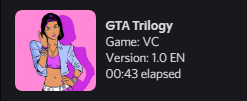
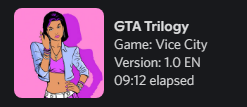
v4.1

Changed region(s): [[0.0567, 0.0594, 0.8502, 0.9208]]

diff --git a/src/dllmain.cpp b/src/dllmain.cpp
@@ -57,6 +57,11 @@ void Game::Init()
 		LOGGER << sBufferz << std::endl;
 	}
 
+	if (ShowLOG)
+	{
+		Logger("Log started");
+	}
+
 	rpc->Update();
 }
 
@@ -64,8 +69,7 @@ void Game::Update()
 {
 	if (ShowLOG)
 	{
-		LOGGER << std::endl;
-		Logger("Trying to start Events::initRwEvent.");
+		Logger("Trying to start void Game::Update().");
 	}
 
 	Events::initRwEvent += []
@@ -83,13 +87,13 @@ void Game::Update()
 
 		if (ShowLOG)
 		{
-			Logger("Events::initRwEvent Started!");
+			Logger("void Game::Update() Started!");
 		}
 
 		if (DCStatus)
 		{
 #ifdef GTA3
-			if (GetGameVersion() == GAME_10EN)
+			if (GetGameVersion() == GAME_10EN || GetGameVersion() == GAME_11EN || GetGameVersion() == GAME_STEAM)
 			{
 				details = "Game: III";
 			}
@@ -102,15 +106,17 @@ void Game::Update()
 				details = "Game: San Andreas";
 			}
 #elif GTAVC
-			if (GetGameVersion() == GAME_10EN)
+			if (GetGameVersion() == GAME_10EN || GetGameVersion() == GAME_11EN || GetGameVersion() == GAME_STEAM)
 			{
-				details = "Game: VC";
+				details = "Game: Vice City";
 			}
 #endif
 #ifdef GTA3
-			if (GetGameVersion() == GAME_10EN)
+			if (GetGameVersion() == GAME_10EN || GetGameVersion() == GAME_11EN || GetGameVersion() == GAME_STEAM)
 			{
-				state = "Version: 1.0 EN";
+				static char  sBufferz[1024];
+				sprintf(sBufferz, "Version: %s", GetGameVersionNames());
+				state = sBufferz;
 			}
 #elif GTASA
 			if (GetGameVersion() == GAME_10US_HOODLUM || GetGameVersion() == GAME_10US_COMPACT ||
@@ -123,10 +129,12 @@ void Game::Update()
 				state = sBufferz;
 			}
 #elif GTAVC
-			if (GetGameVersion() == GAME_10EN)
+			if (GetGameVersion() == GAME_10EN || GetGameVersion() == GAME_11EN || GetGameVersion() == GAME_STEAM)
 			{
-				state = "Version: 1.0 EN";
-			}
+				static char  sBufferz[1024];
+				sprintf(sBufferz, "Version: %s", GetGameVersionNames());
+				state = sBufferz;
+		}
 #endif
 			drp.details = details.c_str();
 			drp.state = state.c_str();
@@ -165,19 +173,11 @@ BOOL APIENTRY DllMain(HINSTANCE hDllHandle, DWORD reason, LPVOID lpReserved)
 				GetGameVersion() != GAME_11EU || GetGameVersion() != GAME_STEAM ||
 				GetGameVersion() != GAME_STEAM_LV)
 			{
-/*				static char   sBufferz[1024];
-				sprintf(sBufferz, "GTA Trilogy Discord RPC\nv4.0 \n\nSA-MP Detected and this plugin are incompatible with this version \n- %s", GetGameVersionName());
-				LOGGER << sBufferz << "\n" << std::endl;*/
-
 				Error("SA-MP Detected and this plugin are incompatible with this version \n- %s", GetGameVersionName());
 				IfSampExist = true;
 			}
 			else
 			{
-/*				static char  sBufferz[1024];
-				sprintf(sBufferz, "GTA Trilogy Discord RPC\nv4.0 \n\nSA-MP Detected! Ignoring Plugin.");
-				LOGGER << sBufferz << std::endl;*/
-
 				Error("SA-MP Detected!");
 				IfSampExist = true;
 			}
@@ -189,19 +189,11 @@ BOOL APIENTRY DllMain(HINSTANCE hDllHandle, DWORD reason, LPVOID lpReserved)
 				GetGameVersion() == GAME_11EU || GetGameVersion() == GAME_STEAM ||
 				GetGameVersion() == GAME_STEAM_LV)
 			{
-/*				static char  sBufferz[1024];
-				sprintf(sBufferz, "GTA Trilogy Discord RPC\nv4.0\n");
-				LOGGER << sBufferz << std::endl;*/
-
 				rpc->Init();
 				IfSampExist = false;
 			}
 			else
 			{
-/*			    static char  sBufferz[1024];
-				sprintf(sBufferz, "GTA Trilogy Discord RPC\nv4.0 \n\nERROR: This plugin does not work with %s version.", GetGameVersionName());
-				LOGGER << sBufferz << std::endl;*/
-
 				Error("This game version is not supported by %s plugin.\nThis plugin supports these game versions:\n- %s \n- %s \n- %s \n- %s \n- %s \n- %s \n- %s",
 					plugin::paths::GetPluginFileNameA(), GetGameVersionName(GAME_10US_HOODLUM), GetGameVersionName(GAME_10US_COMPACT),
 					GetGameVersionName(GAME_10EU), GetGameVersionName(GAME_11US), GetGameVersionName(GAME_11EU), GetGameVersionName(GAME_STEAM),
@@ -210,22 +202,15 @@ BOOL APIENTRY DllMain(HINSTANCE hDllHandle, DWORD reason, LPVOID lpReserved)
 			}
 		}
 #else
-		if (GetGameVersion() == GAMELIST(NULL, GAME_10EN, GAME_10EN))
+		if (GetGameVersion() == GAME_10EN || GetGameVersion() == GAME_11EN || GetGameVersion() == GAME_STEAM)
 		{
-			static char  sBufferz[1024];
-			sprintf(sBufferz, "GTA Trilogy Discord RPC\nv4.0\n");
-			LOGGER << sBufferz << std::endl;
-
 			rpc->Init();
 		}
 		else
 		{
-			Error("This game version is not supported by %s plugin.\nThis plugin supports these game versions:\n- %s",
-				plugin::paths::GetPluginFileNameA(), GetGameVersionName(GAME_10EN));
-
-			static char  sBufferz[1024];
-			sprintf(sBufferz, "GTA Trilogy Discord RPC\nv4.0 \n\nERROR: This plugin does not work with %s version.", GetGameVersionName());
-			LOGGER << sBufferz << std::endl;
+			Error("This game version is not supported by %s plugin.\nThis plugin supports these game versions:\n- %s \n- %s \n- %s",
+				plugin::paths::GetPluginFileNameA(), GetGameVersionName(GAME_10EN), GetGameVersionName(GAME_11EN),
+				GetGameVersionName(GAME_STEAM));
 		}
 #endif
 			break;

diff --git a/README.md b/README.md
@@ -3,14 +3,14 @@ Discord RPC Plugins for GTA Trilogy (III, San Andreas, Vice City), Written in C+
 
 Based on [gtasa-discord-plugin](https://github.com/Brunoo16/gtasa-discord-plugin)
 
-Memory Addresses taken from [GTAMods](https://gtamods.com/wiki/Category:Memory_Addresses) and [Plugin-SDK](https://github.com/DK22Pac/plugin-sdk)
-
 # Requirements
 - [Visual Studio 2019](https://download.visualstudio.microsoft.com/download/pr/b763973d-da6e-4025-834d-d8bc48e7d37f/9b7780b6641ceb4e62c0578d59eb3dbebeda8f5a3474ed253316b0b004d2466e/vs_Community.exe).
 - [Plugin-SDK](https://github.com/DK22Pac/plugin-sdk).
 
 # Version
-- GTA III 1.0
+- GTA III 1.0 EN
+- GTA III 1.1 EN
+- GTA III Steam
 - GTA San Andreas 1.0 US Hoodlum
 - GTA San Andreas 1.0 US Compact
 - GTA San Andreas 1.0 EU 
@@ -18,7 +18,9 @@ Memory Addresses taken from [GTAMods](https://gtamods.com/wiki/Category:Memory_A
 - GTA San Andreas 1.01 EU
 - GTA San Andreas Steam R2
 - GTA San Andreas Steam R2-LV
-- GTA Vice City 1.0
+- GTA Vice City 1.0 EN
+- GTA Vice City 1.1 EN
+- GTA Vice City Steam
 
 # Screenshots
 ![iii](https://github.com/Huga22118/GTA-Discord-RPC/blob/main/iii.png)
@@ -43,12 +45,13 @@ Skip step 3-6 if you have Plugin-SDK Installed.
 Sorry for Bad english :)
 
 # Release
+- [v4.1](https://github.com/Huga22118/GTA-Discord-RPC/releases/tag/v4.1)
 - [v4.0](https://github.com/Huga22118/GTA-Discord-RPC/releases/tag/v4.0)
 - [v3.0](https://github.com/Huga22118/GTA-Discord-RPC/releases/tag/v3.0)
 - [v2.0](https://github.com/Huga22118/GTA-Discord-RPC/releases/tag/v2.0)
 - [v1.0](https://github.com/Huga22118/GTA-Discord-RPC/releases/tag/v1.0)
 
-The Latest Version is v4.0
+The Latest Version is v4.1
 
 
 
